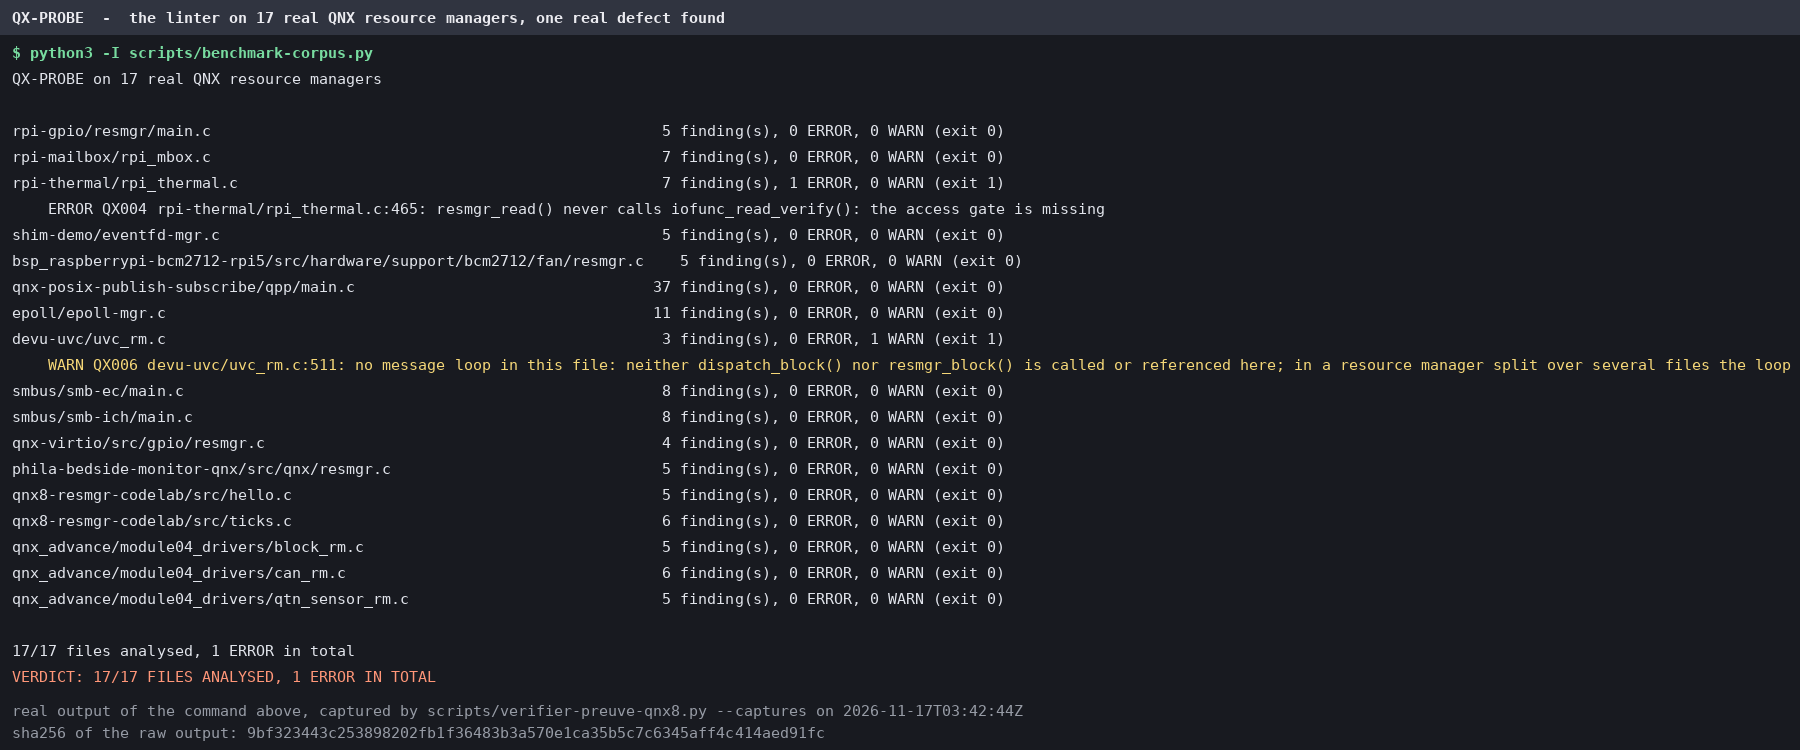
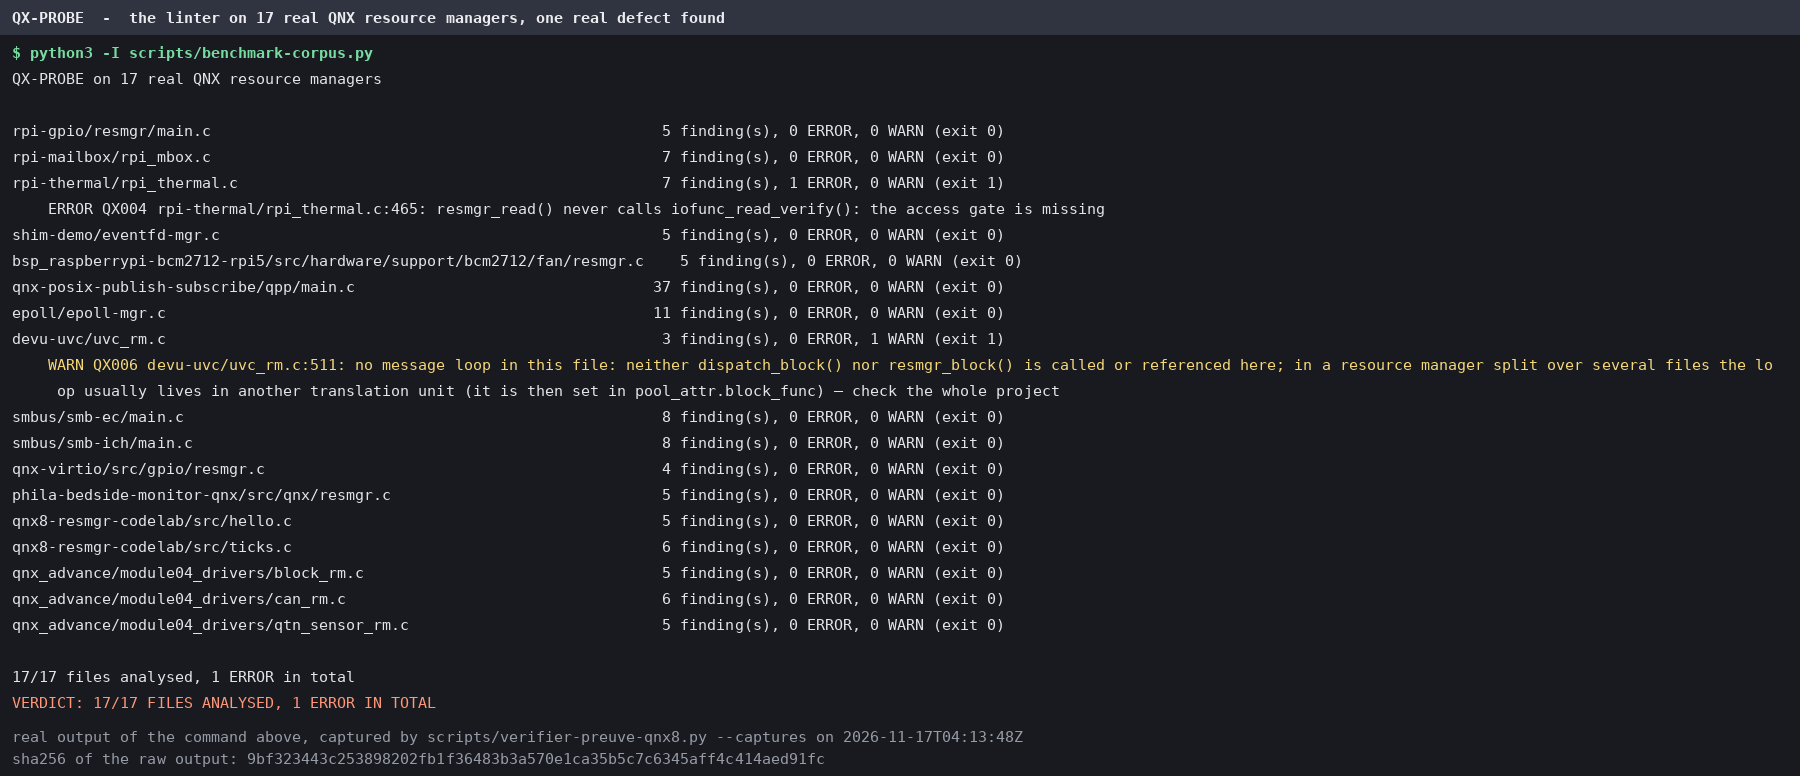
The proof pictures are legible, and the self-test cannot be mistaken for a build
Two honesty fixes, both measured:

- scripts/qnx8-proof.sh --self-test now says, in a banner and in its verdict,
  that the compiler it uses is a FAKE qcc and that nothing below is a QNX 8.0
  compilation.  The banner is printed by the inner run itself, so no part of
  the output can be read as a real build.
- the captures are drawn again: a line longer than the picture is wrapped
  instead of being cut, and the footer (date and sha256 of the raw output) is
  now inside the picture.  The raw text embedded in each PNG is unchanged, so
  the control still compares the picture with the real output of the command.

docs/PREUVE-QNX8.md carries the new sha256 of the three pictures.

diff --git a/scripts/verifier-preuve-qnx8.py b/scripts/verifier-preuve-qnx8.py
@@ -489,19 +489,38 @@ def render_capture(command: str, raw: str, title: str, out_path: pathlib.Path) -
                               % (len(lines) - 40)]
     probe = Image.new("RGB", (10, 10))
     d0 = ImageDraw.Draw(probe)
-    width = d0.textlength("$ " + command, font=font)
-    for line in lines:
-        width = max(width, d0.textlength(line, font=font))
     char_w = d0.textlength("M" * 100, font=font) / 100.0
+    max_px = 1770.0
+    # A line longer than the picture is wrapped, never cut: a judge must read
+    # the whole sentence, and the raw text stays embedded in the PNG.
+    wrapped = []
+    for line in lines:
+        if d0.textlength(line, font=font) <= max_px:
+            wrapped.append(line)
+            continue
+        n = max(40, int(max_px / char_w))
+        first = True
+        while line:
+            chunk, line = line[:n], line[n:]
+            wrapped.append(chunk if first else "     " + chunk)
+            first = False
+    foot = ("real output of the command above, captured by "
+            "scripts/verifier-preuve-qnx8.py --captures on %s"
+            % time.strftime("%Y-%m-%dT%H:%M:%SZ", time.gmtime()))
+    sha_line = ("sha256 of the raw output: " +
+                hashlib.sha256(raw.encode("utf-8")).hexdigest())
+    width = d0.textlength("$ " + command, font=font)
+    for line in wrapped + [foot, sha_line]:
+        width = max(width, d0.textlength(line, font=font))
     w = int(min(1800, max(900, width + 40)))
-    h = 70 + 26 * len(lines) + 56
+    h = 70 + 26 * len(wrapped) + 56
     img = Image.new("RGB", (w, h), (24, 26, 32))
     draw = ImageDraw.Draw(img)
     draw.rectangle([0, 0, w, 34], fill=(48, 52, 64))
     draw.text((12, 9), "QX-PROBE  -  " + title, font=bold, fill=(235, 235, 240))
     draw.text((12, 44), "$ " + command, font=bold, fill=(120, 220, 160))
     y = 70
-    for line in lines:
+    for line in wrapped:
         colour = (225, 228, 235)
         if line.startswith(("ERROR", "FAILED", "VERDICT", "RESULT")):
             colour = (255, 150, 120)
@@ -509,13 +528,8 @@ def render_capture(command: str, raw: str, title: str, out_path: pathlib.Path) -
             colour = (245, 215, 120)
         draw.text((12, y), line, font=font, fill=colour)
         y += 26
-    foot = ("real output of the command above, captured by "
-            "scripts/verifier-preuve-qnx8.py --captures on %s"
-            % time.strftime("%Y-%m-%dT%H:%M:%SZ", time.gmtime()))
     draw.text((12, y + 8), foot, font=font, fill=(150, 155, 165))
-    draw.text((12, y + 30), "sha256 of the raw output: " +
-              hashlib.sha256(raw.encode("utf-8")).hexdigest(),
-              font=font, fill=(150, 155, 165))
+    draw.text((12, y + 30), sha_line, font=font, fill=(150, 155, 165))
     info = PngInfo()
     info.add_itxt("QX-PROBE", raw, lang="en")
     img.save(out_path, "PNG", pnginfo=info)

diff --git a/docs/PREUVE-QNX8.md b/docs/PREUVE-QNX8.md
@@ -110,9 +110,9 @@ picture shows what the command really prints.
 
 | ID | the image | the command that produced it | the sha256 of the image | what it shows |
 |---|---|---|---|---|
-| C01 | media/qx-proof-1-corpus-reel.png | python3 -I scripts/benchmark-corpus.py | 3fd93903aae8f671bf529d04c2221cd3f387fcccdc4638e503057357730cb54f | the linter on 17 real QNX resource managers, one real defect found |
-| C02 | media/qx-proof-2-exemple-officiel.png | python3 -I qx_probe.py examples/qnx80_resmgr_official_example.c | aa07c1bc669965a483ce51c569ea0eebdc6c90d946721d31c4b856bca5b386be | the official example of the QNX 8.0 documentation: 0 ERROR, 0 WARN |
-| C03 | media/qx-proof-3-sdp-absent.png | bash scripts/qnx8-proof.sh | bf05cf00e2025316047e263bbf1cd5cd21cfd8a5a61d920b7b5460fcbf30fe71 | the QNX 8.0 proof script: the SDP is absent, and it says so instead of faking it |
+| C01 | media/qx-proof-1-corpus-reel.png | python3 -I scripts/benchmark-corpus.py | 697e70ad1033c3dca9b96b059c1be38fa3cc5b36448821d8e5b80c89de8fb888 | the linter on 17 real QNX resource managers, one real defect found |
+| C02 | media/qx-proof-2-exemple-officiel.png | python3 -I qx_probe.py examples/qnx80_resmgr_official_example.c | 2ff69e0aaa73cede483a9e360938adc8d7f46df11b74e528c29de7a6ea325320 | the official example of the QNX 8.0 documentation: 0 ERROR, 0 WARN |
+| C03 | media/qx-proof-3-sdp-absent.png | bash scripts/qnx8-proof.sh | 1423540ceeb10a0b9e9eb1852d22bce824f4b54ad584521cb66c57ef942b0fc0 | the QNX 8.0 proof script: the SDP is absent, and it says so instead of faking it |
 
 ## The two sentences the submission form needs
 
